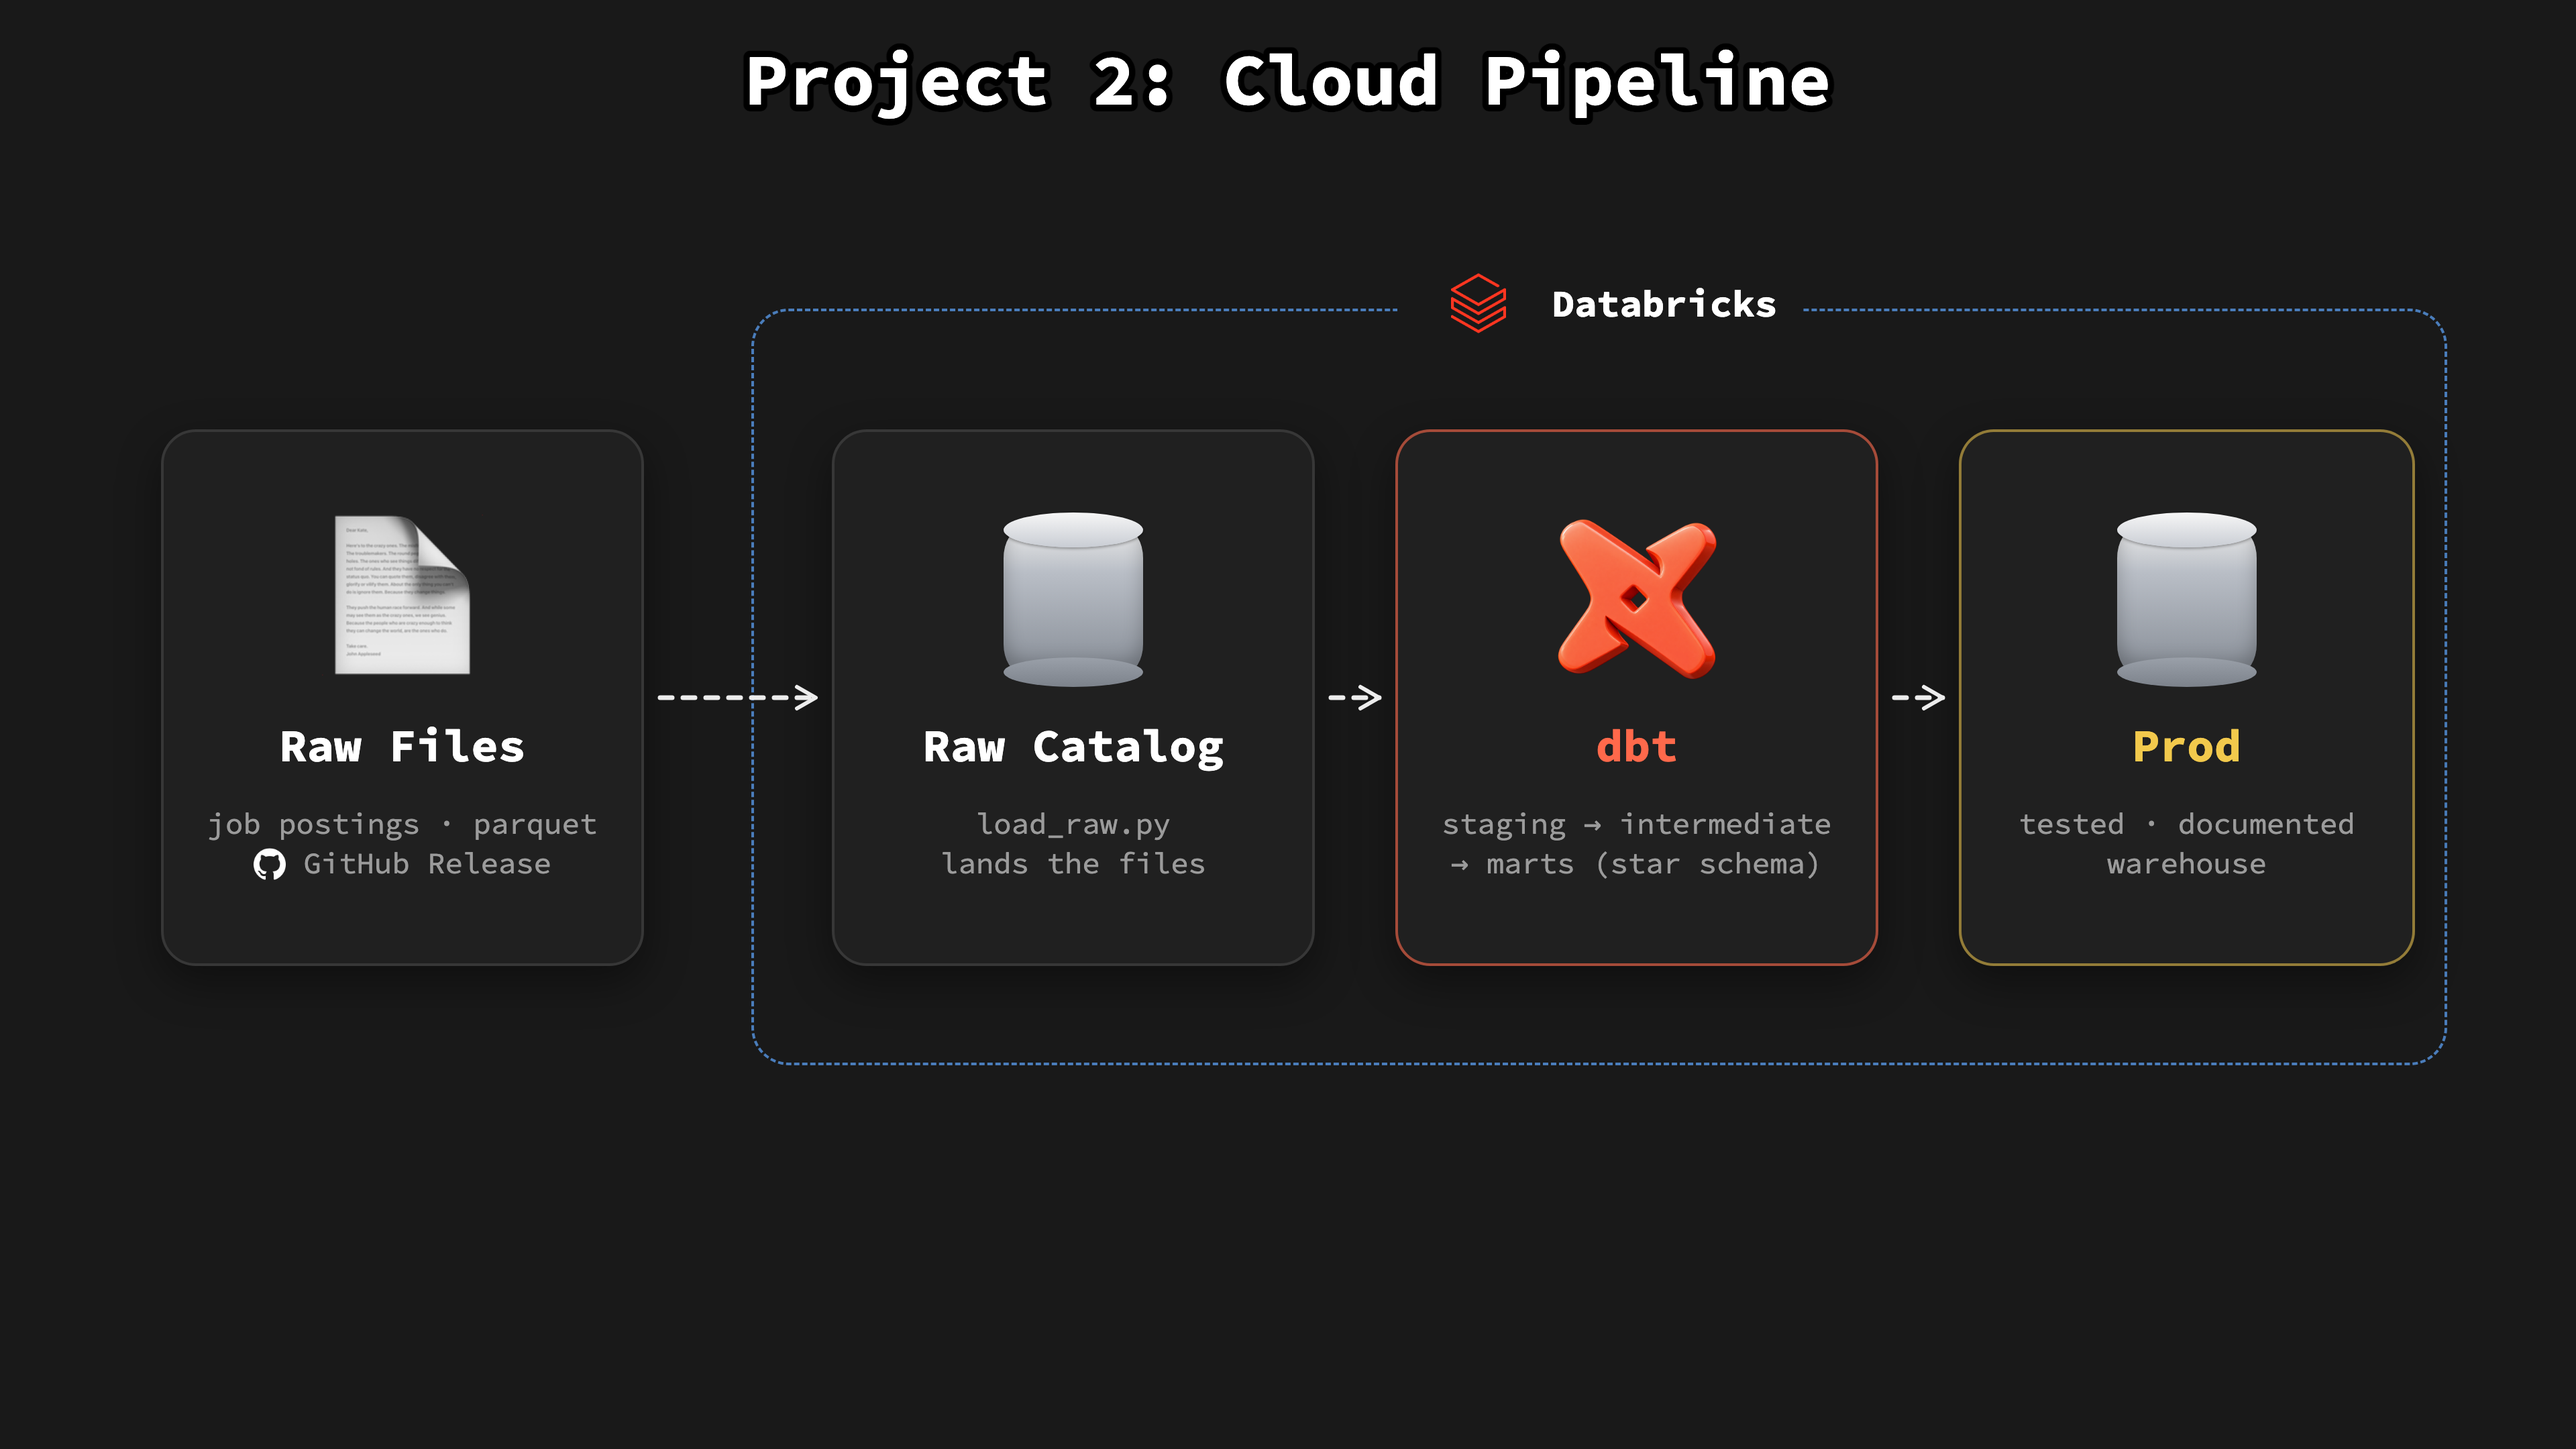
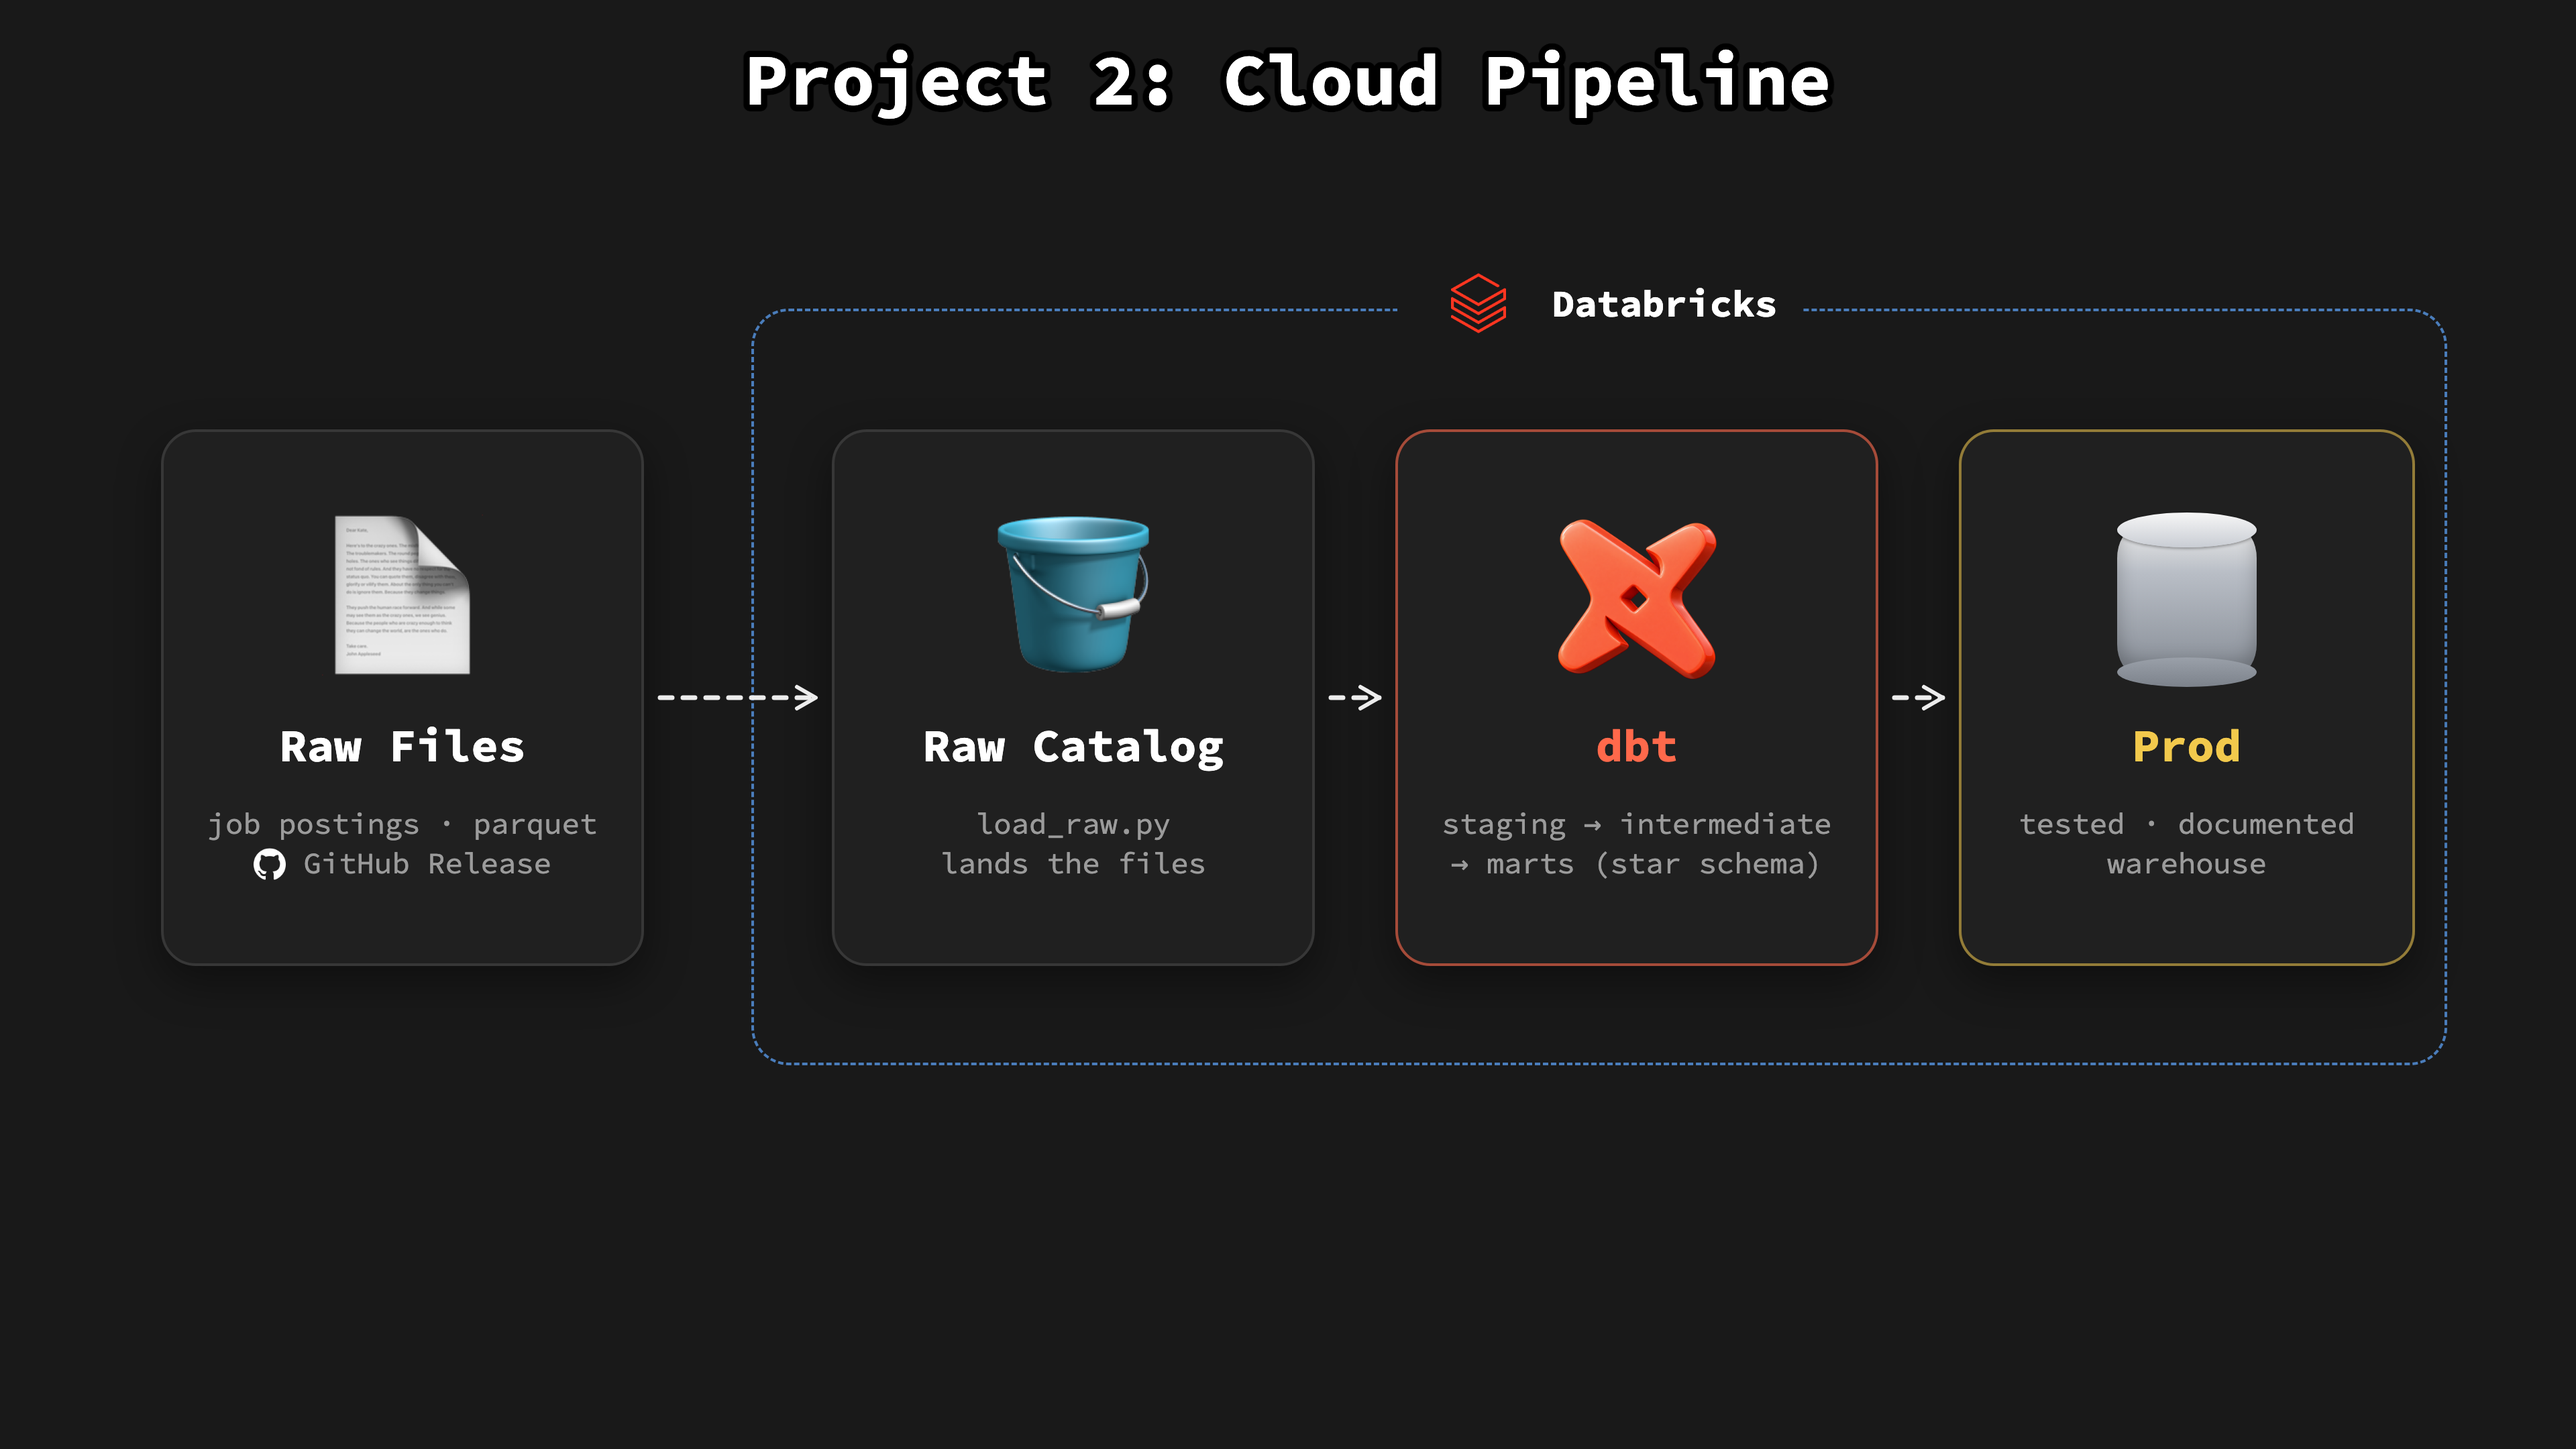
0.03 Project 2 poster: bucket back on the Raw Catalog card

Changed region(s): [[0.375, 0.3412, 0.4688, 0.4963]]

diff --git a/resources/diagrams/0.03_project_2_simple.html b/resources/diagrams/0.03_project_2_simple.html
@@ -59,7 +59,7 @@
   </div>
   <div class="zone" style="left:560px;top:230px;width:1260px;height:560px"><div class="zl"><span><img src="../images/Databricks_logo.png" alt="">Databricks</span></div></div>
   <div class="card" style="left:620px;top:320px;width:360px;height:400px">
-    <div class="ic"><div class="cyl"><div class="body"></div><div class="top"></div><div class="bot"></div></div></div>
+    <div class="ic">🪣</div>
     <div class="nm">Raw Catalog</div>
     <div class="cap">load_raw.py<br>lands the files</div>
   </div>
